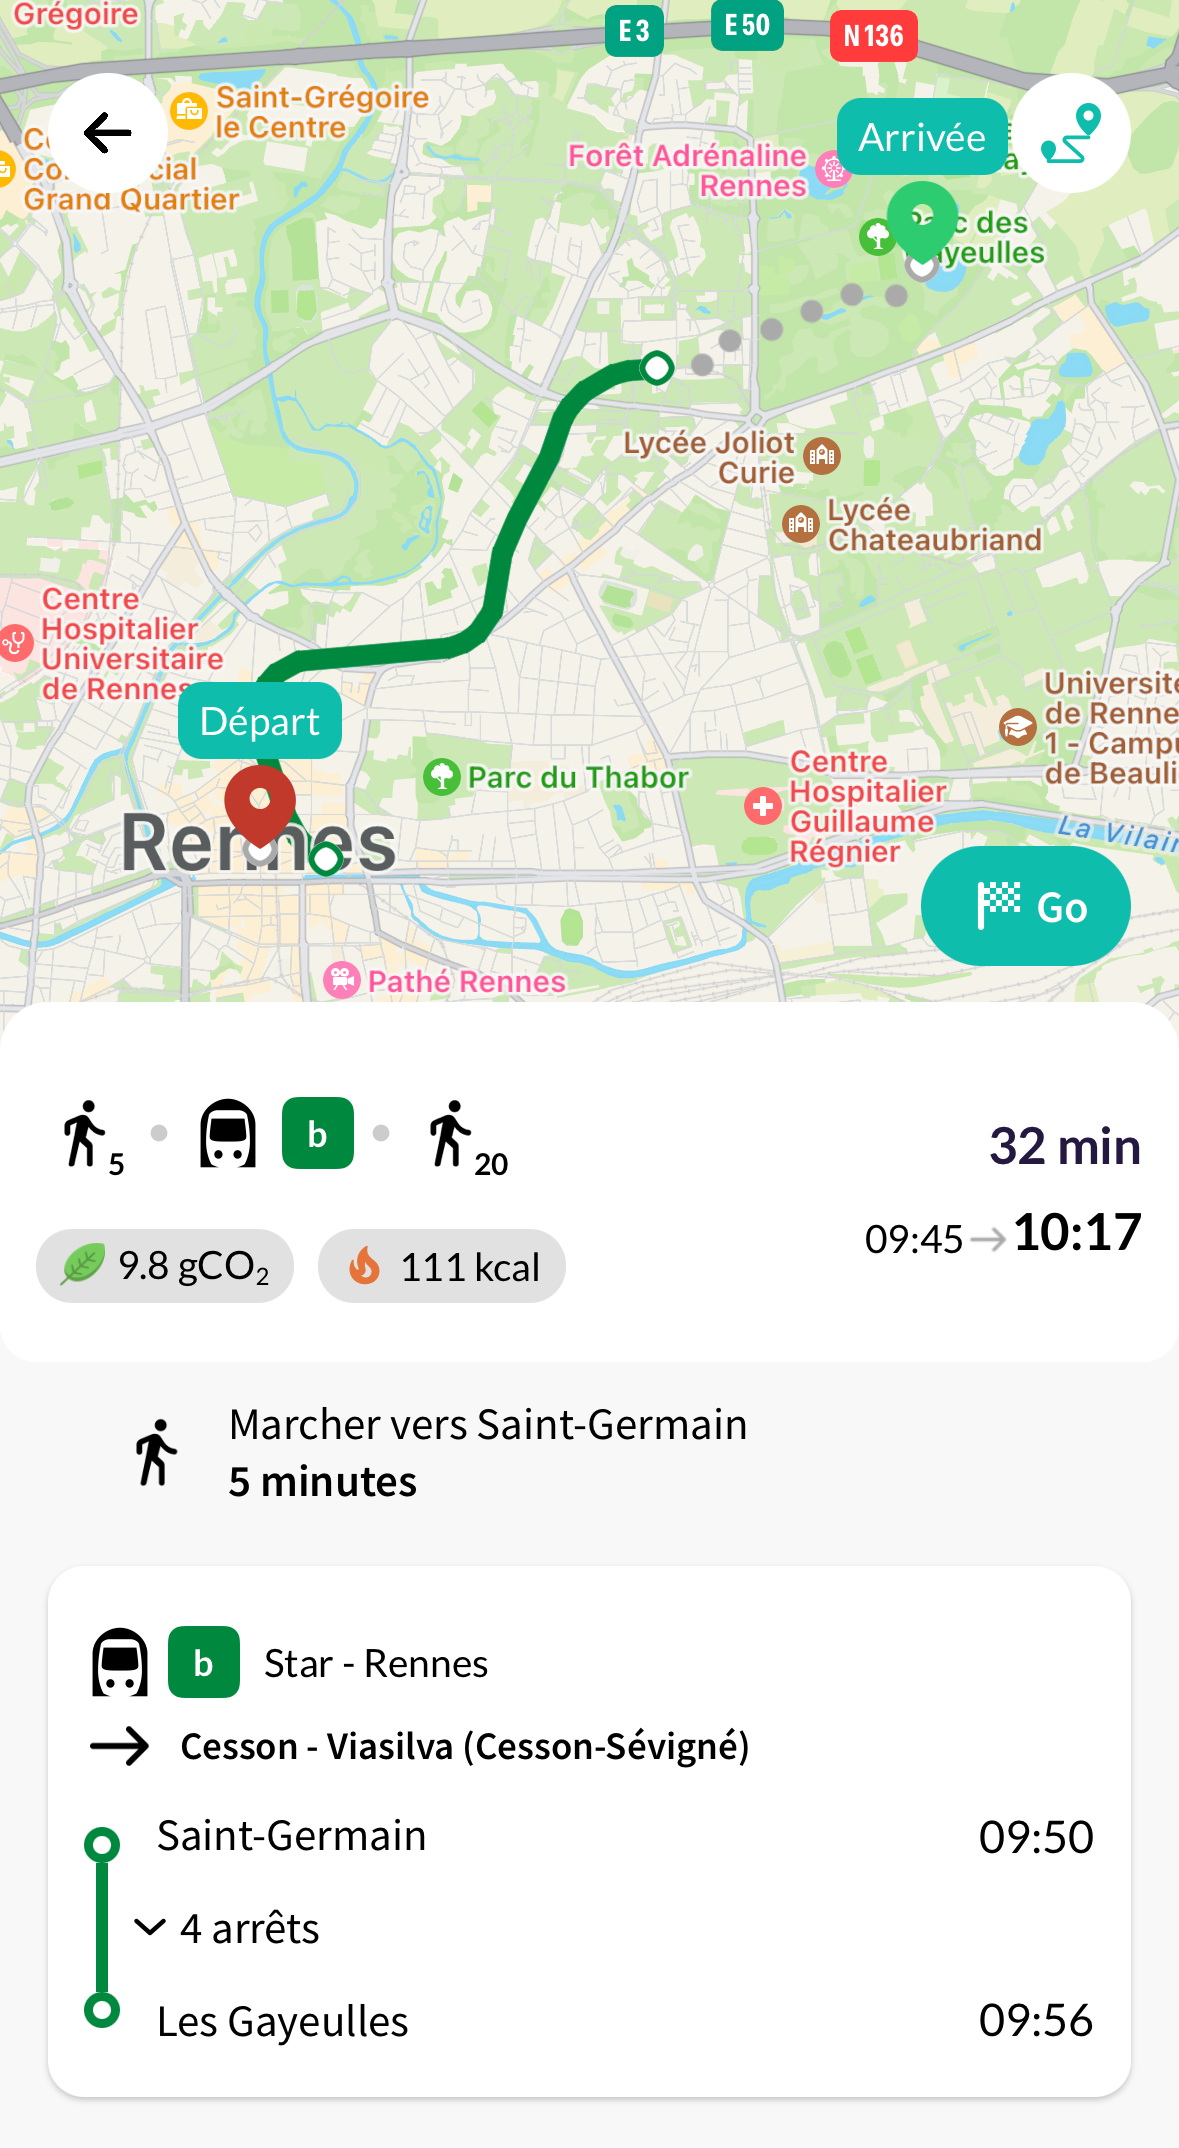
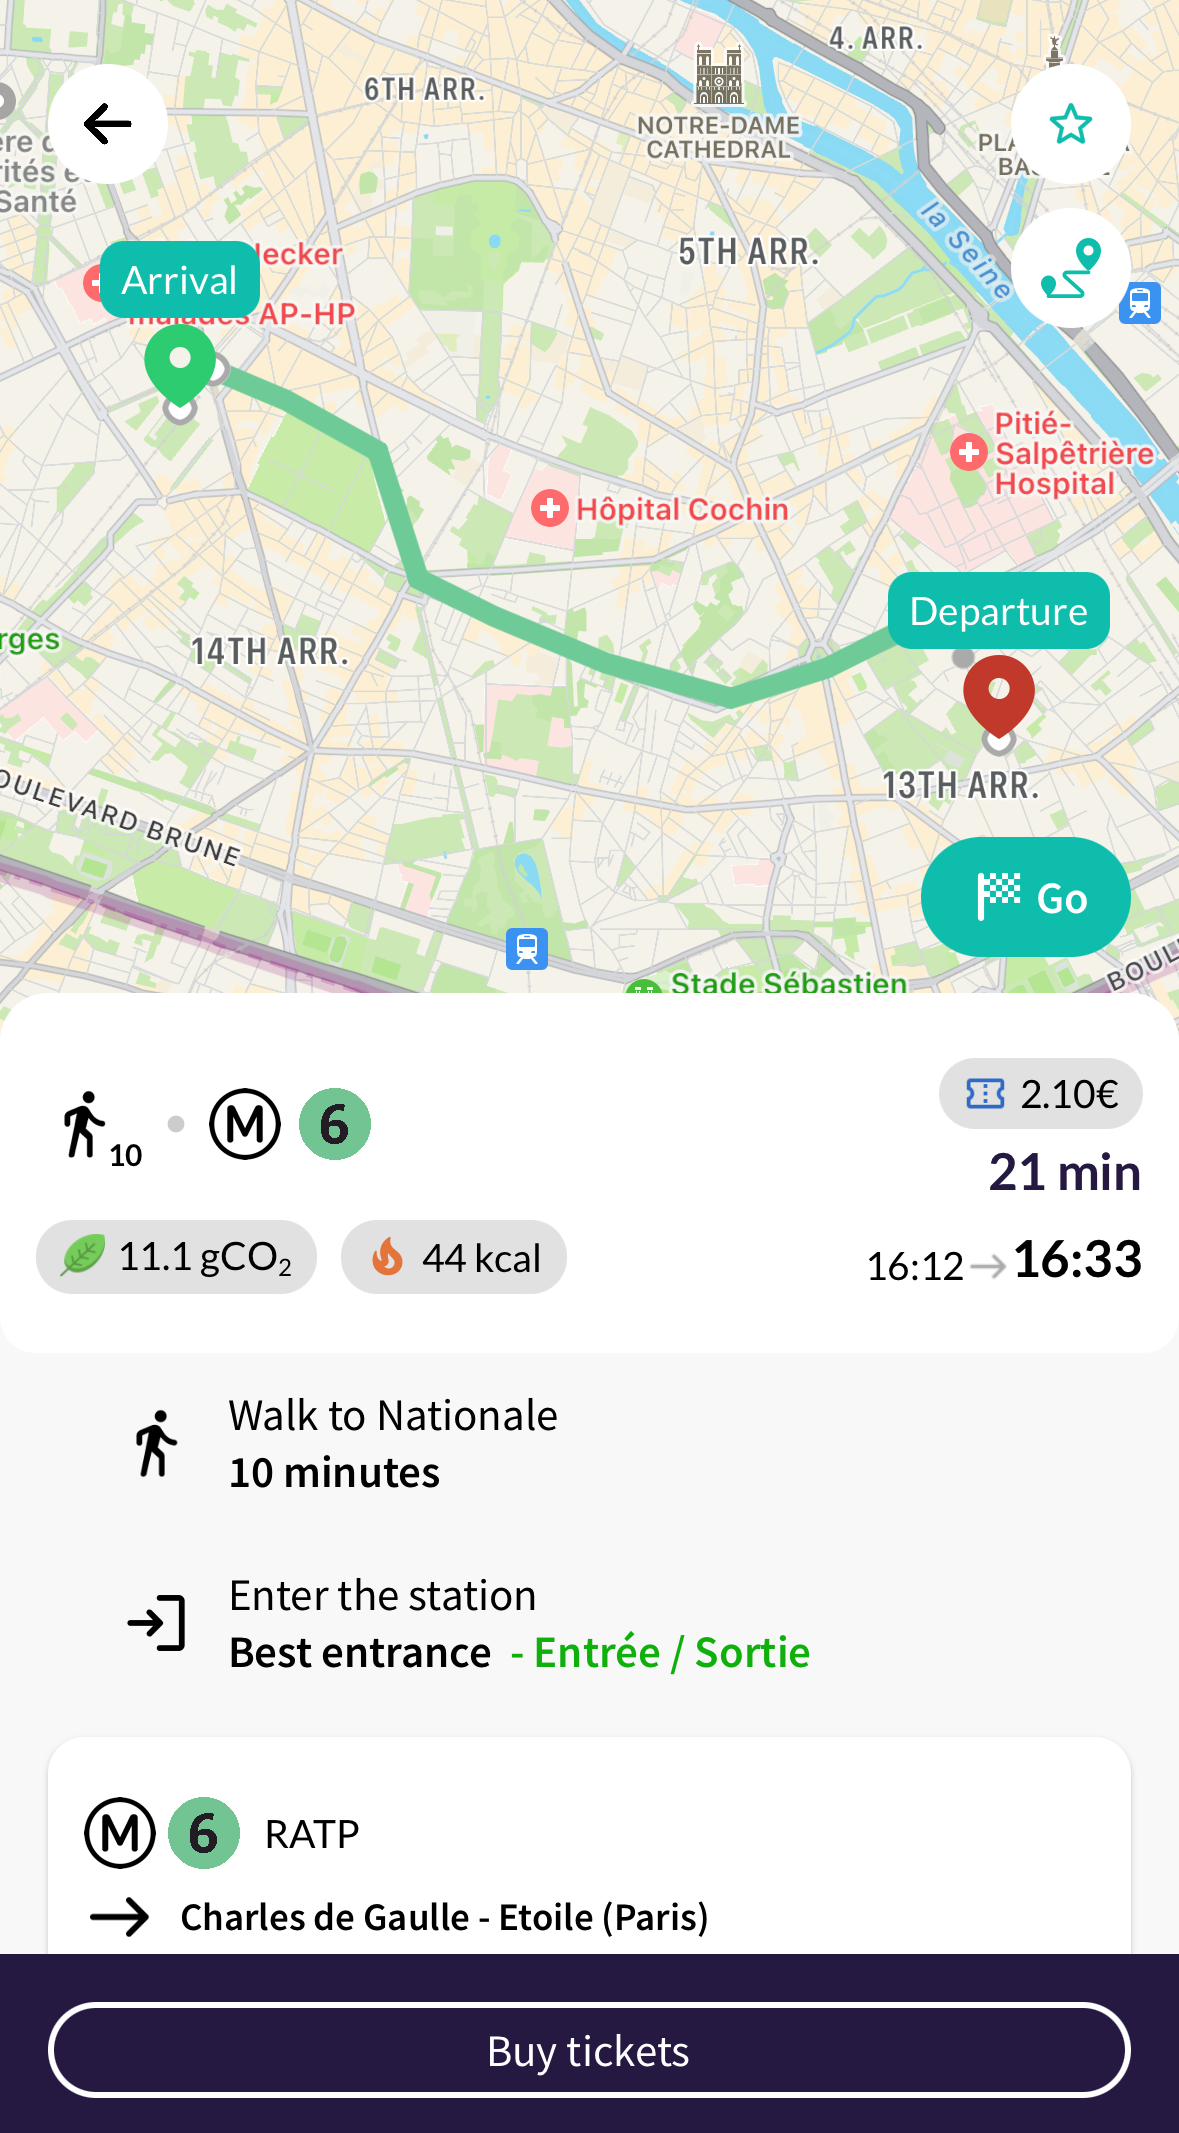
Document journey history, favorite journeys and autocompletion bookmark section

diff --git a/docs/journey/android/index.md b/docs/journey/android/index.md
@@ -170,15 +170,22 @@ In the bike tab, the bike journeys are classified depending on specific criteria
 
 <img class="img-overview" src="/navitia_sdk_docs/assets/img/journey_android_journeys_screen_bike_tab.png" alt="Bike tab">
 
+Each made itinerary request is saved and shown to the user at the screen launch. The history can be easily deleted by choosing delete from the action menu of the target item.<br>
+In the same screen, we also show the list of the favorite journeys that the user has added using the bookmark button (see [Roadmap](#roadmap) section below). To enable this feature, the `bookmark_mode`parameter should be set to `true` in [Journey features](../../getting_started/#journey-features).
+
+<img class="img-overview" src="/navitia_sdk_docs/assets/img/journey_android_journeys_screen_history_favorite_journeys.png" alt="Journey - History and favorites">
+
 ### Search
 
-The search feature can be enabled in the configuration by setting the parameter `search` to `true` as mentioned in the [Journey features](../../getting_started/#journey-features) section.<br>
+The search feature can be enabled in the configuration by setting the parameter `search_only` to `false` as mentioned in the [Journey features](../../getting_started/#journey-features) section.<br>
 In this screen, the user can choose the departure and the arrival of his itinerary. While typing in the target field, a list of options is shown below the field. The user can simply choose one of the suggested options and mark it as a departure or as an arrival point.<br>
 
 The suggested options are grouped in sections, it's whether a station, an address or a place.
 In this screen, a geolocation service is used to get the user location. Therefore, another option is given and it allows the user to set his position as a departure or an arrival of the itinerary.<br>
 
 A history feature is added to this screen, allowing the user to choose from the previous selected items. The `maxHistory` parameter defines the maximum number of items to show in the history list.
+
+If `bookmark_mode` feature is enabled in the [Journey features](../../getting_started/#journey-features), a bookmark section appears in the same screen allowing the user to choose from his favorite addresses/places. A shortcut button is also available for Home and Work favorites.
 
 <img class="img-overview" src="/navitia_sdk_docs/assets/img/journey_android_autocompletion_screen.png" alt="Autocompletion screen">
 
@@ -187,6 +194,8 @@ A history feature is added to this screen, allowing the user to choose from the 
 We believe that the user needs more useful details about his journey and that's where the roadmap screen comes in. In this page, the user gets a visual overview about the selected itinerary with a simple colorful drawing on a map. Departure and arrival markers are also shown on the map along with the user location and itinerary segments delimiters.
 
 The screen also includes a draggable bottom sheet which offers a step-by-step journey sections. Each section is represented in a way that it makes it easier to the user to follow the given instructions. The public transport section is also well detailed when it comes to explain to the user how to take different means of transport from the departure to the arrival point.
+
+A customized button can be added in case an external action needs to be made from outside this screen. To enable this button, the parameter `buy_tickets` should be set in [Journey features](../../getting_started/#journey-features).
 
 <img class="img-overview" src="/navitia_sdk_docs/assets/img/journey_android_roadmap_screen.png" alt="Roadmap screen">
 

diff --git a/docs/journey/ios/index.md b/docs/journey/ios/index.md
@@ -174,15 +174,22 @@ In the bike tab, the bike journeys are classified depending on specific criteria
 
 <img class="img-overview" src="/navitia_sdk_docs/assets/img/journey_ios_journeys_screen_bike_tab.png" alt="Bike tab">
 
+Each made itinerary request is saved and shown to the user at the screen launch. The history can be easily deleted by choosing delete from the action menu of the target item.<br>
+In the same screen, we also show the list of the favorite journeys that the user has added using the bookmark button (see [Roadmap](#roadmap) section below). To enable this feature, the `bookmark_mode`parameter should be set to `true` in [Journey features](../../getting_started/#journey-features).
+
+<img class="img-overview" src="/navitia_sdk_docs/assets/img/journey_ios_journeys_screen_history_favorite_journeys.png" alt="Journey - History and favorites">
+
 ### Search
 
-The search feature can be enabled in the configuration by setting the parameter `search` to `true` as mentioned in the [Journey features](../../getting_started/#journey-features) section.<br>
+The search feature can be enabled in the configuration by setting the parameter `search_only` to `false` as mentioned in the [Journey features](../../getting_started/#journey-features) section.<br>
 In this screen, the user can choose the departure and the arrival of his itinerary. While typing in the target field, a list of options is shown below the field. The user can simply choose one of the suggested options and mark it as a departure or as an arrival point.<br>
 
 The suggested options are grouped in sections, it's whether a station, an address or a place.
 In this screen, a geolocation service is used to get the user location. Therefore, another option is given and it allows the user to set his position as a departure or an arrival of the itinerary.<br>
 
 A history feature is added to this screen, allowing the user to choose from the previous selected items. The `maxHistory` parameter defines the maximum number of items to show in the history list.
+
+If `bookmark_mode` feature is enabled in the [Journey features](../../getting_started/#journey-features), a bookmark section appears in the same screen allowing the user to choose from his favorite addresses/places. A shortcut button is also available for Home and Work favorites.
 
 <img class="img-overview" src="/navitia_sdk_docs/assets/img/journey_ios_autocompletion_screen.png" alt="Autocompletion screen">
 
@@ -191,6 +198,8 @@ A history feature is added to this screen, allowing the user to choose from the 
 We believe that the user needs more useful details about his journey and that's where the roadmap screen comes in. In this page, the user gets a visual overview about the selected itinerary with a simple colorful drawing on a map. Departure and arrival markers are also shown on the map along with the user location and itinerary segments delimiters.
 
 The screen also includes a draggable bottom sheet which offers a step-by-step journey sections. Each section is represented in a way that it makes it easier to the user to follow the given instructions. The public transport section is also well detailed when it comes to explain to the user how to take different means of transport from the departure to the arrival point.
+
+A customized button can be added in case an external action needs to be made from outside this screen. To enable this button, the parameter `buy_tickets` should be set in [Journey features](../../getting_started/#journey-features).
 
 <img class="img-overview" src="/navitia_sdk_docs/assets/img/journey_ios_roadmap_screen.png" alt="Roadmap screen">
 

diff --git a/docs/getting_started.md b/docs/getting_started.md
@@ -291,18 +291,21 @@ The following are the possible configuration parameters:
 
 | Name | Required | Description | Type | Example |
 | --- |:---:| --- | :---: | :---: |
-| `autocompletion`| :material-close: | Enable/disable the autocompletion | `Boolean` | `false` |
 | `bookmark_mode`| :material-close: | Enable/disable the bookmarks feature | `Boolean` |
-| `stop_point_search`| :material-close: | Enable/disable search by stop point instead of stop area | `Boolean` | `false` |
-| `step_by_step_guidance`| :material-close: | Enable/disable the step by step guidance | `Boolean` |
-| `next_departures`| :material-close: | Show/hide the next departures | `Boolean` | `true` |
-| `price`| :material-close: | Show/hide the itinerary price | `Boolean` | `true` |
+| `buy_tickets`| :material-close: | Enable a buy button in roadmap | [Buy ticket button](#buy-ticket-button) |
 | `carbon`| :material-close: | Show/hide the itinerary carbon summary | `Boolean` | `true` |
 | `calories`| :material-close: | Show/hide the itinerary calories summary | `Boolean` | `false` |
-| `transport_networks`| :material-close: | Show/hide the public transport network | `Boolean` | `false` |
-| `max_history`| :material-close: | Define the max history items | `Int` | `10` |
 | `disruption_contributors`| :material-close: | Define the list of disruption contributors id | `[String]` | `["shortterm.tr_idfm"]` |
-| `buy_tickets`| :material-close: | Enable a buy button in roadmap | [Buy ticket button](#buy-ticket-button) |
+| `disruption_contributors`| :material-close: | Define the list of disruption contributors id | `[String]` | `["shortterm.tr_idfm"]` |
+| `earlier_later`| :material-close: | Enable/disable the earlier/later journeys request | `Boolean` | `false` |
+| `max_favorite_addresses`| :material-close: | Define the max history items | `Int` | `0` |
+| `max_favorite_pois`| :material-close: | Define the max history items | `Int` | `0` |
+| `max_history`| :material-close: | Define the max history items | `Int` | `10` |
+| `next_departures`| :material-close: | Show/hide the next departures | `Boolean` | `true` |
+| `price`| :material-close: | Show/hide the itinerary price | `Boolean` | `true` |
+| `stop_point_search`| :material-close: | Enable/disable search by stop point instead of stop area | `Boolean` | `false` |
+| `step_by_step_guidance`| :material-close: | Enable/disable the step by step guidance | `Boolean` |
+| `transport_networks`| :material-close: | Show/hide the public transport network | `Boolean` | `false` |
 
 #### Buy ticket button
 
